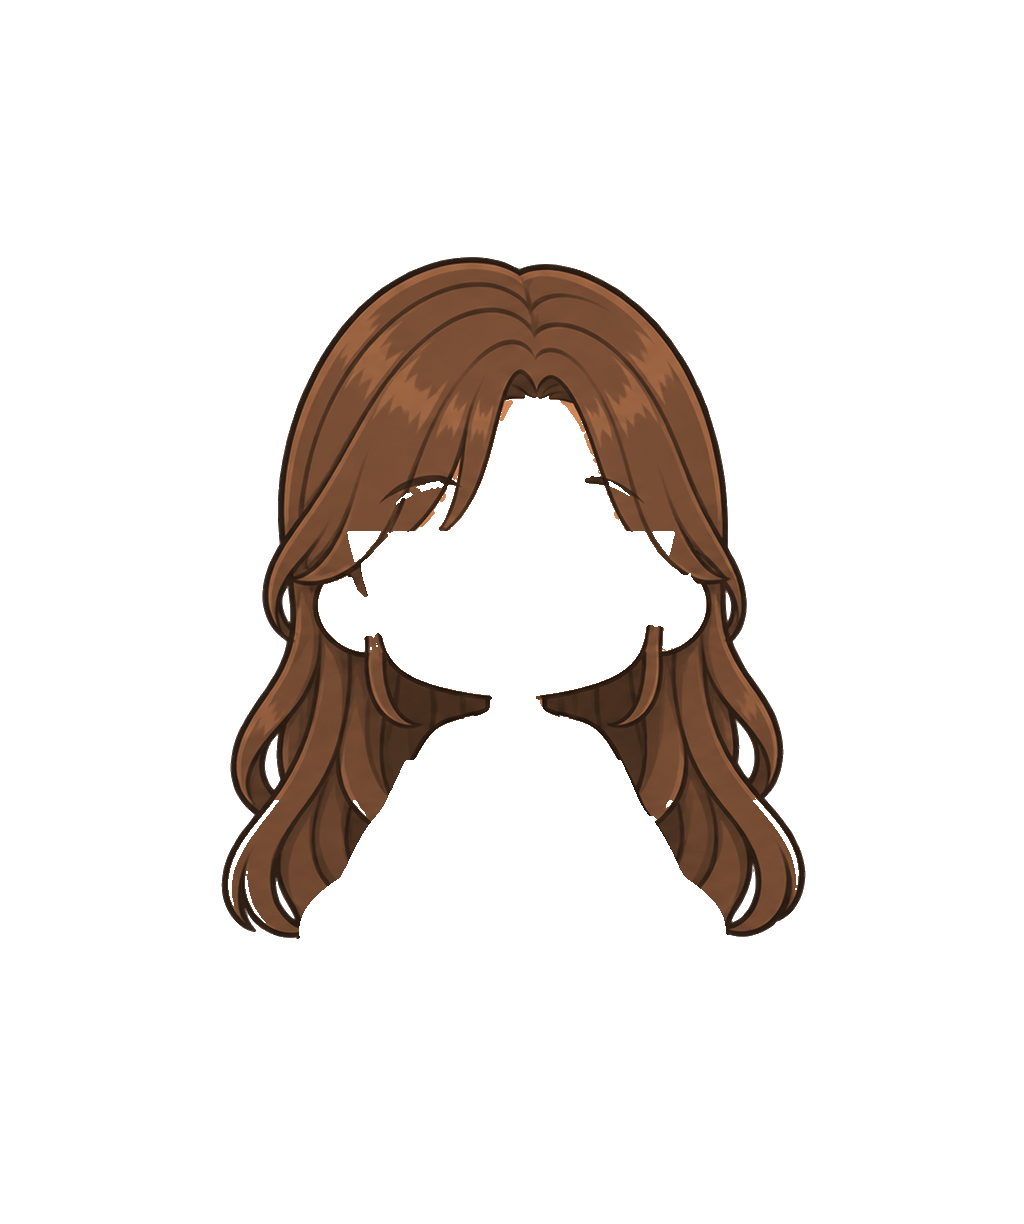
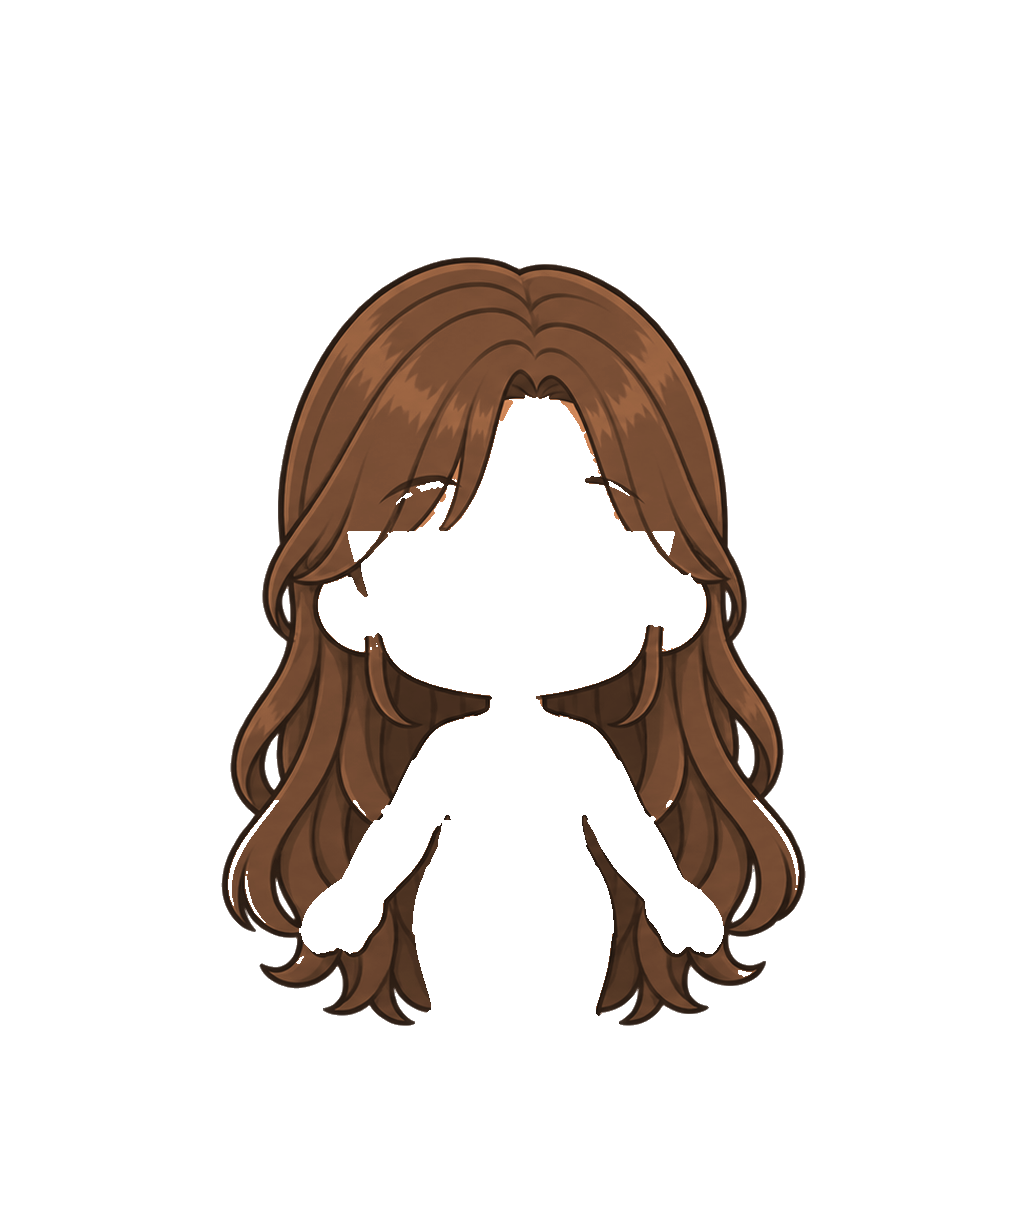
fix(iq2): 女性ロングの腰にかかる房を除去
Claude-Session: https://claude.ai/code/session_01NXuBE3U4UAebXMPco3J5UQ

diff --git a/app/lib/avatar/catalog.ts b/app/lib/avatar/catalog.ts
@@ -114,7 +114,7 @@ export const OUTFIT_READY = new Set(["knight_default__f","mage_default__f","arch
 export const OUTFIT_HAS_BACK = new Set<string>([]);
 
 /** 画像差し替え時にブラウザキャッシュを無効化するためのバージョン */
-export const ASSET_V = "27";
+export const ASSET_V = "29";
 
 export function resolveLayers(c: AvatarConfig, job: JobKey): { layer: Layer; src: string | null; missing: boolean }[] {
     const g = GEAR[job];

diff --git a/tools/avatar_hair_trim.py b/tools/avatar_hair_trim.py
@@ -1,0 +1,18 @@
+#!/usr/bin/env python3
+"""前髪レイヤーのうち、肩より下で体の内側（素体シルエットの内側）にかかる房を落とす（横に落ちる髪は残す）。
+使い方: python3 tools/avatar_hair_trim.py <hairId> <base f|m> [y_from=640]"""
+import sys, glob
+from PIL import Image
+import numpy as np
+from scipy import ndimage
+hid=sys.argv[1]; base=sys.argv[2]; y0=int(sys.argv[3]) if len(sys.argv)>3 else 640
+vis=np.array(Image.open(f"public/avatar/body/{base}__light.png").convert("RGBA"))[:,:,3]>200
+body=ndimage.binary_dilation(vis,iterations=4)
+TOP=200
+for f in glob.glob(f"public/avatar/hair_front/{hid}__*.png"):
+    im=Image.open(f).convert("RGBA"); a=np.array(im); al=a[:,:,3]
+    H=al.shape[0]; yy=np.arange(H)[:,None]
+    m=np.zeros_like(al,bool); m[TOP:TOP+1024]=body
+    kill=(yy>=y0+TOP)&m
+    al[kill]=0; a[:,:,3]=al; Image.fromarray(a).save(f)
+print("trimmed",hid)
